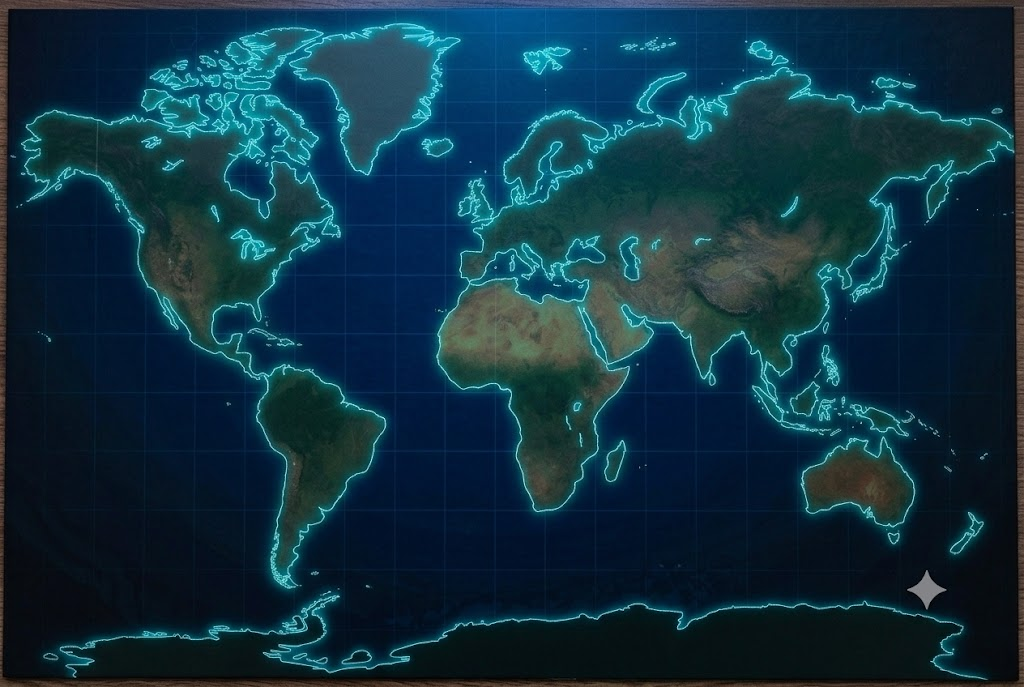
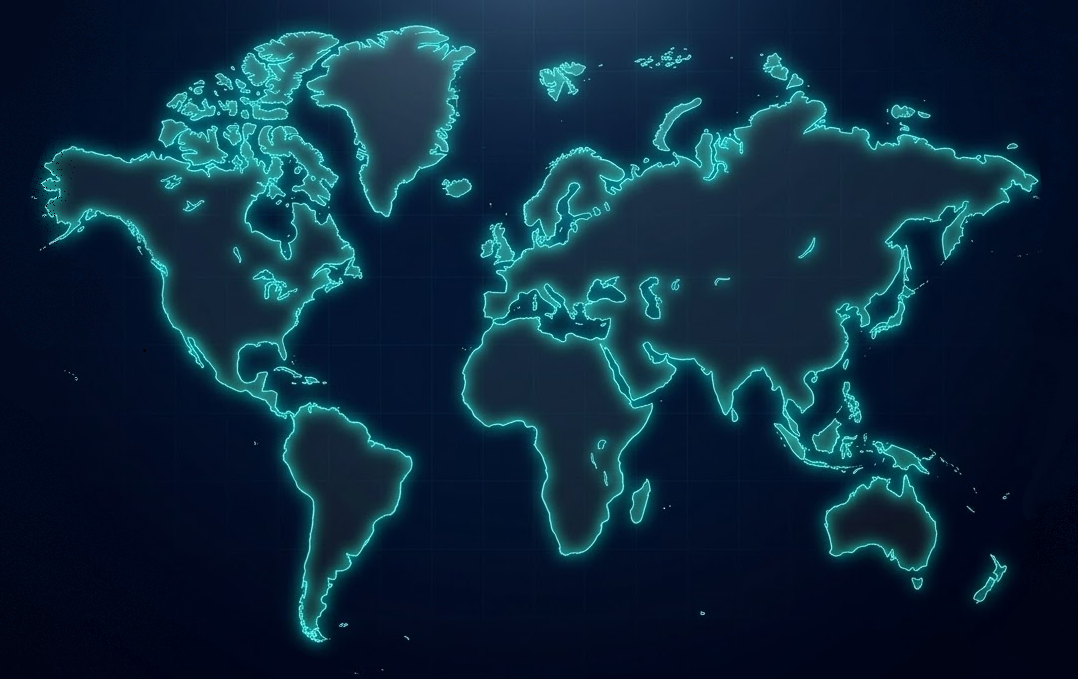
Implement auto-scaling for game map and update city coordinates handling

diff --git a/public/game.js b/public/game.js
@@ -9,11 +9,21 @@ let mapData = {};
 let currentGameState = {};
 let myPlayerId = null;
 
-// КАЛІБРУВАННЯ КАРТИ: 
-// Змінюй ці цифри, щоб посунути всі міста разом і підігнати під свою картинку.
-// Судячи з фото, міста треба підняти десь на 100 пікселів вгору:
-const OFFSET_X = 0;    // від'ємне число - вліво, додатнє - вправо
-const OFFSET_Y = 0; // від'ємне число - вгору, додатнє - вниз
+// --- СИСТЕМА АВТО-МАСШТАБУВАННЯ КАРТИ ---
+// Тобі більше не треба міняти координати кожного міста вручну!
+// Ці 4 змінні дозволяють стиснути/розтягнути або посунути всю сітку міст як один об'єкт.
+const SCALE_X = 1.0;   // 1.0 - стандарт. Якщо міста треба розтягнути по горизонталі - пиши 1.1, якщо стиснути - 0.9
+const SCALE_Y = 0.84;  // Ми стискаємо висоту, бо перейшли з 800 на 675 (675/800 = ~0.84)
+const OFFSET_X = 0;    // Посунути всю сітку вправо/вліво
+const OFFSET_Y = 0;    // Посунути всю сітку вгору/вниз
+
+// Математика, яка сама перераховує координати для кожного міста на льоту
+function getCoords(originalX, originalY) {
+    return {
+        x: (originalX * SCALE_X) + OFFSET_X,
+        y: (originalY * SCALE_Y) + OFFSET_Y
+    };
+}
 
 socket.on('init_game', (data) => {
     mapData = data.cities;
@@ -37,7 +47,7 @@ function updateUI() {
 function draw() {
     ctx.clearRect(0, 0, canvas.width, canvas.height);
 
-    // 1. Малюємо фон
+    // 1. Фон
     if (bgImage.complete) {
         ctx.drawImage(bgImage, 0, 0, canvas.width, canvas.height);
     } else {
@@ -45,11 +55,9 @@ function draw() {
         ctx.fillRect(0, 0, canvas.width, canvas.height);
     }
 
-    // 2. Малюємо зв'язки (лінії)
+    // 2. Зв'язки (лінії)
     ctx.lineWidth = 3;
     ctx.strokeStyle = 'rgba(255, 255, 255, 0.4)';
-    
-    // Щоб не малювати ту саму лінію двічі
     const drawnLines = new Set();
 
     for (const [cityName, cityData] of Object.entries(mapData)) {
@@ -60,44 +68,39 @@ function draw() {
                 drawnLines.add(pairKey);
                 
                 const target = mapData[targetName];
-                const startX = cityData.x + OFFSET_X;
-                const startY = cityData.y + OFFSET_Y;
-                const endX = target.x + OFFSET_X;
-                const endY = target.y + OFFSET_Y;
+                // Отримуємо нові перераховані координати для ліній
+                const start = getCoords(cityData.x, cityData.y);
+                const end = getCoords(target.x, target.y);
 
-                const dist = Math.hypot(startX - endX, startY - endY);
+                const dist = Math.hypot(start.x - end.x, start.y - end.y);
 
                 ctx.beginPath();
-                if (dist > 800) {
-                    // МІСТА НА РІЗНИХ КІНЦЯХ СВІТУ
-                    const leftCity = startX < endX ? {x: startX, y: startY} : {x: endX, y: endY};
-                    const rightCity = startX > endX ? {x: startX, y: startY} : {x: endX, y: endY};
+                if (dist > canvas.width * 0.7) { // Якщо лінія йде через океан
+                    const leftCity = start.x < end.x ? start : end;
+                    const rightCity = start.x > end.x ? start : end;
 
-                    // Лінія від лівого міста за лівий край
                     ctx.moveTo(leftCity.x, leftCity.y);
                     ctx.lineTo(-50, leftCity.y);
                     
-                    // Лінія від правого міста за правий край
                     ctx.moveTo(rightCity.x, rightCity.y);
                     ctx.lineTo(canvas.width + 50, rightCity.y);
                 } else {
-                    // Звичайна лінія
-                    ctx.moveTo(startX, startY);
-                    ctx.lineTo(endX, endY);
+                    ctx.moveTo(start.x, start.y);
+                    ctx.lineTo(end.x, end.y);
                 }
                 ctx.stroke();
             }
         });
     }
 
-    // 3. Малюємо міста
+    // 3. Міста
     for (const [cityName, cityData] of Object.entries(mapData)) {
-        const cx = cityData.x + OFFSET_X;
-        const cy = cityData.y + OFFSET_Y;
+        // Отримуємо нові координати для відмальовки міст
+        const pos = getCoords(cityData.x, cityData.y);
 
         ctx.fillStyle = cityData.color;
         ctx.beginPath();
-        ctx.arc(cx, cy, 12, 0, Math.PI * 2);
+        ctx.arc(pos.x, pos.y, 12, 0, Math.PI * 2);
         ctx.fill();
         
         ctx.lineWidth = 2;
@@ -108,21 +111,20 @@ function draw() {
         ctx.font = "bold 14px Arial";
         ctx.shadowColor = "black";
         ctx.shadowBlur = 4;
-        ctx.fillText(cityName, cx - 20, cy - 15);
+        ctx.fillText(cityName, pos.x - 20, pos.y - 15);
         ctx.shadowBlur = 0;
     }
 
-    // 4. Малюємо гравців
+    // 4. Гравці
     if (currentGameState.players) {
         Object.values(currentGameState.players).forEach(player => {
             const city = mapData[player.city];
             if (city) {
-                const cx = city.x + OFFSET_X;
-                const cy = city.y + OFFSET_Y;
+                const pos = getCoords(city.x, city.y);
 
                 ctx.fillStyle = player.id === myPlayerId ? "#48bb78" : "#ed8936";
                 ctx.beginPath();
-                ctx.arc(cx + 12, cy + 12, 9, 0, Math.PI * 2);
+                ctx.arc(pos.x + 12, pos.y + 12, 9, 0, Math.PI * 2);
                 ctx.fill();
                 ctx.strokeStyle = "white";
                 ctx.stroke();
@@ -133,24 +135,40 @@ function draw() {
     requestAnimationFrame(draw);
 }
 
-// Обробка кліків
+// Обробка кліків для руху (з урахуванням перерахованих координат)
 canvas.addEventListener('click', (event) => {
     const rect = canvas.getBoundingClientRect();
-    const scaleX = canvas.width / rect.width;
-    const scaleY = canvas.height / rect.height;
+    const mapScaleX = canvas.width / rect.width;
+    const mapScaleY = canvas.height / rect.height;
 
-    const mouseX = (event.clientX - rect.left) * scaleX;
-    const mouseY = (event.clientY - rect.top) * scaleY;
+    const mouseX = (event.clientX - rect.left) * mapScaleX;
+    const mouseY = (event.clientY - rect.top) * mapScaleY;
 
     for (const [cityName, cityData] of Object.entries(mapData)) {
-        // Додаємо OFFSET і для кліків, щоб зона натискання збігалася з відмальованим містом
-        const cx = cityData.x + OFFSET_X;
-        const cy = cityData.y + OFFSET_Y;
+        const pos = getCoords(cityData.x, cityData.y);
 
-        const dist = Math.hypot(mouseX - cx, mouseY - cy);
+        const dist = Math.hypot(mouseX - pos.x, mouseY - pos.y);
         if (dist < 20) {
             socket.emit('move_player', cityName);
             break;
+        }
+    }
+});
+// Додай цей блок в кінець файлу public/game.js
+canvas.addEventListener('click', (e) => {
+    if (e.altKey) { // Тільки якщо затиснуто Alt
+        const rect = canvas.getBoundingClientRect();
+        const x = (e.clientX - rect.left) * (canvas.width / rect.width);
+        const y = (e.clientY - rect.top) * (canvas.height / rect.height);
+        
+        // Знаходимо, яке місто найближче
+        for (const [name, data] of Object.entries(mapData)) {
+            const pos = getCoords(data.x, data.y);
+            if (Math.hypot(x - pos.x, y - pos.y) < 30) {
+                socket.emit('update_city_coords', { name, x: Math.round(x/SCALE_X), y: Math.round(y/SCALE_Y) });
+                alert(`Місто ${name} збережено: ${Math.round(x)}, ${Math.round(y)}`);
+                break;
+            }
         }
     }
 });

diff --git a/server.js b/server.js
@@ -1,64 +1,16 @@
 const express = require('express');
 const http = require('http');
 const { Server } = require('socket.io');
+const fs = require('fs');
 
 const app = express();
 const server = http.createServer(app);
 const io = new Server(server);
 
-app.use(express.static('public')); 
+app.use(express.static('public'));
 
-// База даних усіх 48 міст оригінальної Пандемії
-const cities = {
-    "San Francisco": { color: "#2b6cb0", x: 120, y: 250, connections: ["Chicago", "Los Angeles", "Tokyo", "Manila"] },
-    "Chicago": { color: "#2b6cb0", x: 240, y: 220, connections: ["San Francisco", "Los Angeles", "Atlanta", "Montreal"] },
-    "Atlanta": { color: "#2b6cb0", x: 260, y: 290, connections: ["Chicago", "Washington", "Miami"] },
-    "Montreal": { color: "#2b6cb0", x: 310, y: 220, connections: ["Chicago", "Washington", "New York"] },
-    "Washington": { color: "#2b6cb0", x: 340, y: 280, connections: ["Atlanta", "Montreal", "New York", "Miami"] },
-    "New York": { color: "#2b6cb0", x: 360, y: 230, connections: ["Montreal", "Washington", "London", "Madrid"] },
-    "London": { color: "#2b6cb0", x: 520, y: 200, connections: ["New York", "Madrid", "Paris", "Essen"] },
-    "Madrid": { color: "#2b6cb0", x: 510, y: 280, connections: ["New York", "London", "Paris", "Algiers", "Sao Paulo"] },
-    "Paris": { color: "#2b6cb0", x: 560, y: 230, connections: ["London", "Madrid", "Algiers", "Milan", "Essen"] },
-    "Essen": { color: "#2b6cb0", x: 600, y: 200, connections: ["London", "Paris", "Milan", "St. Petersburg"] },
-    "Milan": { color: "#2b6cb0", x: 610, y: 250, connections: ["Paris", "Essen", "Istanbul"] },
-    "St. Petersburg": { color: "#2b6cb0", x: 690, y: 180, connections: ["Essen", "Istanbul", "Moscow"] },
-    "Los Angeles": { color: "#d69e2e", x: 130, y: 320, connections: ["San Francisco", "Chicago", "Mexico City", "Sydney"] }, 
-    "Mexico City": { color: "#d69e2e", x: 190, y: 400, connections: ["Los Angeles", "Chicago", "Miami", "Bogota", "Lima"] },
-    "Miami": { color: "#d69e2e", x: 300, y: 360, connections: ["Atlanta", "Washington", "Mexico City", "Bogota"] },
-    "Bogota": { color: "#d69e2e", x: 310, y: 480, connections: ["Mexico City", "Miami", "Lima", "Buenos Aires", "Sao Paulo"] },
-    "Lima": { color: "#d69e2e", x: 290, y: 580, connections: ["Mexico City", "Bogota", "Santiago"] },
-    "Santiago": { color: "#d69e2e", x: 300, y: 700, connections: ["Lima"] },
-    "Buenos Aires": { color: "#d69e2e", x: 400, y: 680, connections: ["Bogota", "Sao Paulo"] },
-    "Sao Paulo": { color: "#d69e2e", x: 430, y: 590, connections: ["Bogota", "Buenos Aires", "Madrid", "Lagos"] },
-    "Lagos": { color: "#d69e2e", x: 560, y: 480, connections: ["Sao Paulo", "Kinshasa", "Khartoum"] },
-    "Kinshasa": { color: "#d69e2e", x: 600, y: 550, connections: ["Lagos", "Khartoum", "Johannesburg"] },
-    "Johannesburg": { color: "#d69e2e", x: 640, y: 680, connections: ["Kinshasa", "Khartoum"] },
-    "Khartoum": { color: "#d69e2e", x: 670, y: 470, connections: ["Lagos", "Kinshasa", "Johannesburg", "Cairo"] },
-    "Algiers": { color: "#1a202c", x: 550, y: 330, connections: ["Madrid", "Paris", "Istanbul", "Cairo"] },
-    "Cairo": { color: "#1a202c", x: 640, y: 350, connections: ["Algiers", "Istanbul", "Baghdad", "Riyadh", "Khartoum"] },
-    "Istanbul": { color: "#1a202c", x: 660, y: 280, connections: ["Milan", "St. Petersburg", "Moscow", "Baghdad", "Cairo", "Algiers"] },
-    "Moscow": { color: "#1a202c", x: 730, y: 220, connections: ["St. Petersburg", "Istanbul", "Tehran"] },
-    "Baghdad": { color: "#1a202c", x: 720, y: 320, connections: ["Istanbul", "Cairo", "Riyadh", "Karachi", "Tehran"] },
-    "Riyadh": { color: "#1a202c", x: 730, y: 420, connections: ["Cairo", "Baghdad", "Karachi"] },
-    "Tehran": { color: "#1a202c", x: 780, y: 300, connections: ["Moscow", "Baghdad", "Karachi", "Delhi"] },
-    "Karachi": { color: "#1a202c", x: 830, y: 400, connections: ["Riyadh", "Baghdad", "Tehran", "Delhi", "Mumbai"] },
-    "Mumbai": { color: "#1a202c", x: 850, y: 480, connections: ["Karachi", "Delhi", "Chennai"] },
-    "Delhi": { color: "#1a202c", x: 880, y: 380, connections: ["Tehran", "Karachi", "Mumbai", "Chennai", "Kolkata"] },
-    "Chennai": { color: "#1a202c", x: 900, y: 540, connections: ["Mumbai", "Delhi", "Kolkata", "Bangkok", "Jakarta"] },
-    "Kolkata": { color: "#1a202c", x: 940, y: 420, connections: ["Delhi", "Chennai", "Bangkok", "Hong Kong"] },
-    "Beijing": { color: "#e53e3e", x: 1000, y: 280, connections: ["Seoul", "Shanghai"] },
-    "Seoul": { color: "#e53e3e", x: 1080, y: 280, connections: ["Beijing", "Shanghai", "Tokyo"] },
-    "Shanghai": { color: "#e53e3e", x: 1020, y: 350, connections: ["Beijing", "Seoul", "Tokyo", "Taipei", "Hong Kong"] },
-    "Tokyo": { color: "#e53e3e", x: 1130, y: 300, connections: ["Seoul", "Shanghai", "Osaka", "San Francisco"] },
-    "Osaka": { color: "#e53e3e", x: 1140, y: 350, connections: ["Tokyo", "Taipei"] },
-    "Taipei": { color: "#e53e3e", x: 1080, y: 420, connections: ["Shanghai", "Osaka", "Hong Kong", "Manila"] },
-    "Hong Kong": { color: "#e53e3e", x: 1030, y: 430, connections: ["Shanghai", "Taipei", "Manila", "Ho Chi Minh City", "Bangkok", "Kolkata"] },
-    "Bangkok": { color: "#e53e3e", x: 980, y: 490, connections: ["Kolkata", "Hong Kong", "Ho Chi Minh City", "Jakarta", "Chennai"] },
-    "Manila": { color: "#e53e3e", x: 1100, y: 500, connections: ["Taipei", "Hong Kong", "Ho Chi Minh City", "Sydney", "San Francisco"] },
-    "Ho Chi Minh City": { color: "#e53e3e", x: 1020, y: 550, connections: ["Bangkok", "Hong Kong", "Manila", "Jakarta"] },
-    "Jakarta": { color: "#e53e3e", x: 1010, y: 640, connections: ["Chennai", "Bangkok", "Ho Chi Minh City", "Sydney"] },
-    "Sydney": { color: "#e53e3e", x: 1150, y: 700, connections: ["Jakarta", "Manila", "Los Angeles"] }
-};
+// Завантажуємо міста один раз при старті
+let cities = JSON.parse(fs.readFileSync('cities.json', 'utf8'));
 
 let gameState = {
     players: {},

diff --git a/public/index.html b/public/index.html
@@ -12,7 +12,7 @@
         <p>Місто: <span id="my-city">-</span></p>
     </div>
     <!-- Canvas для відмальовки карти, ліній та анімацій -->
-    <canvas id="gameCanvas" width="1200" height="800"></canvas>
+    <canvas id="gameCanvas" width="1200" height="675"></canvas>
 
     <script src="/socket.io/socket.io.js"></script>
     <script src="game.js"></script>